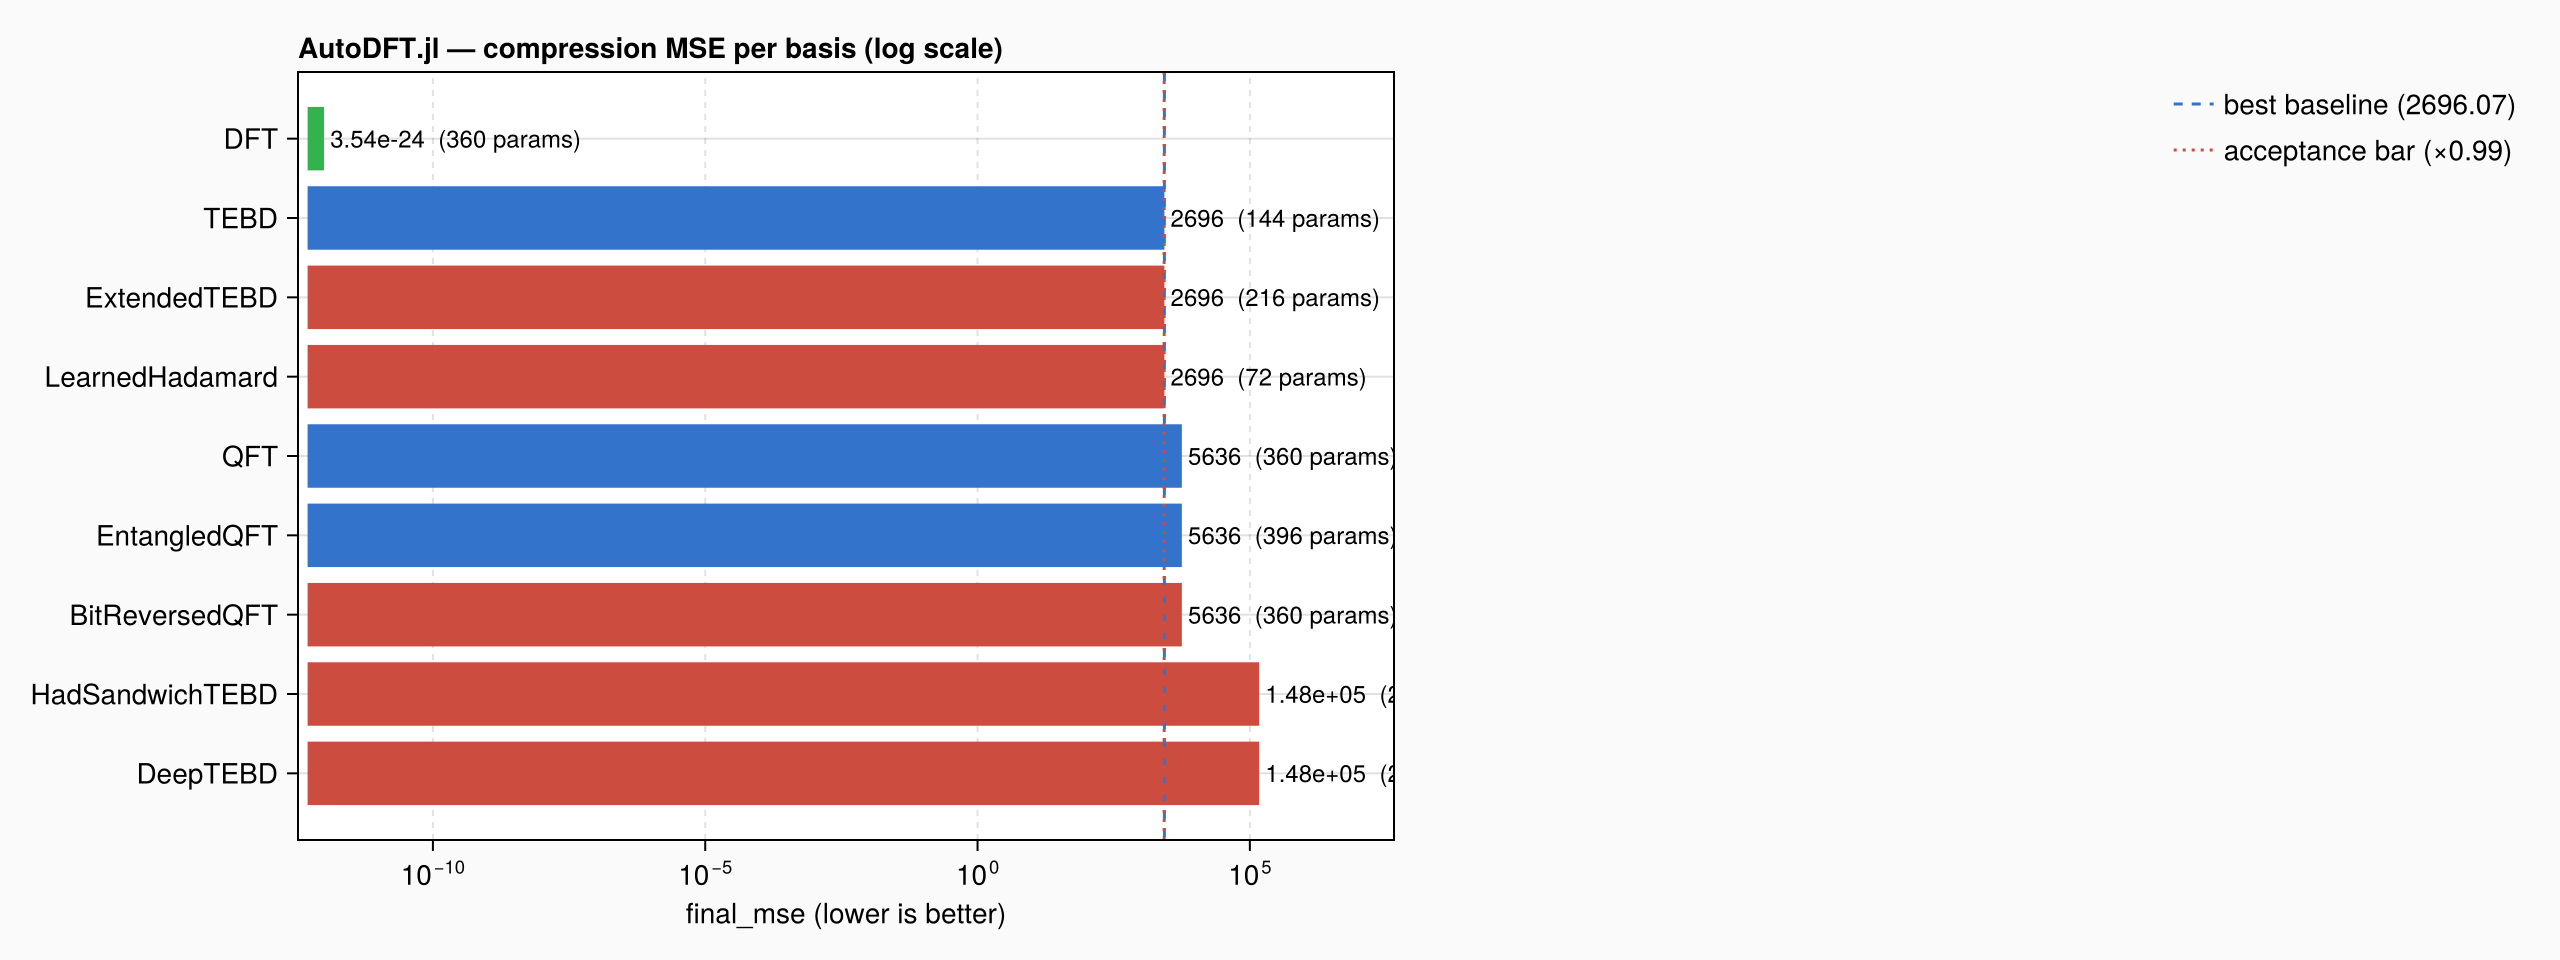
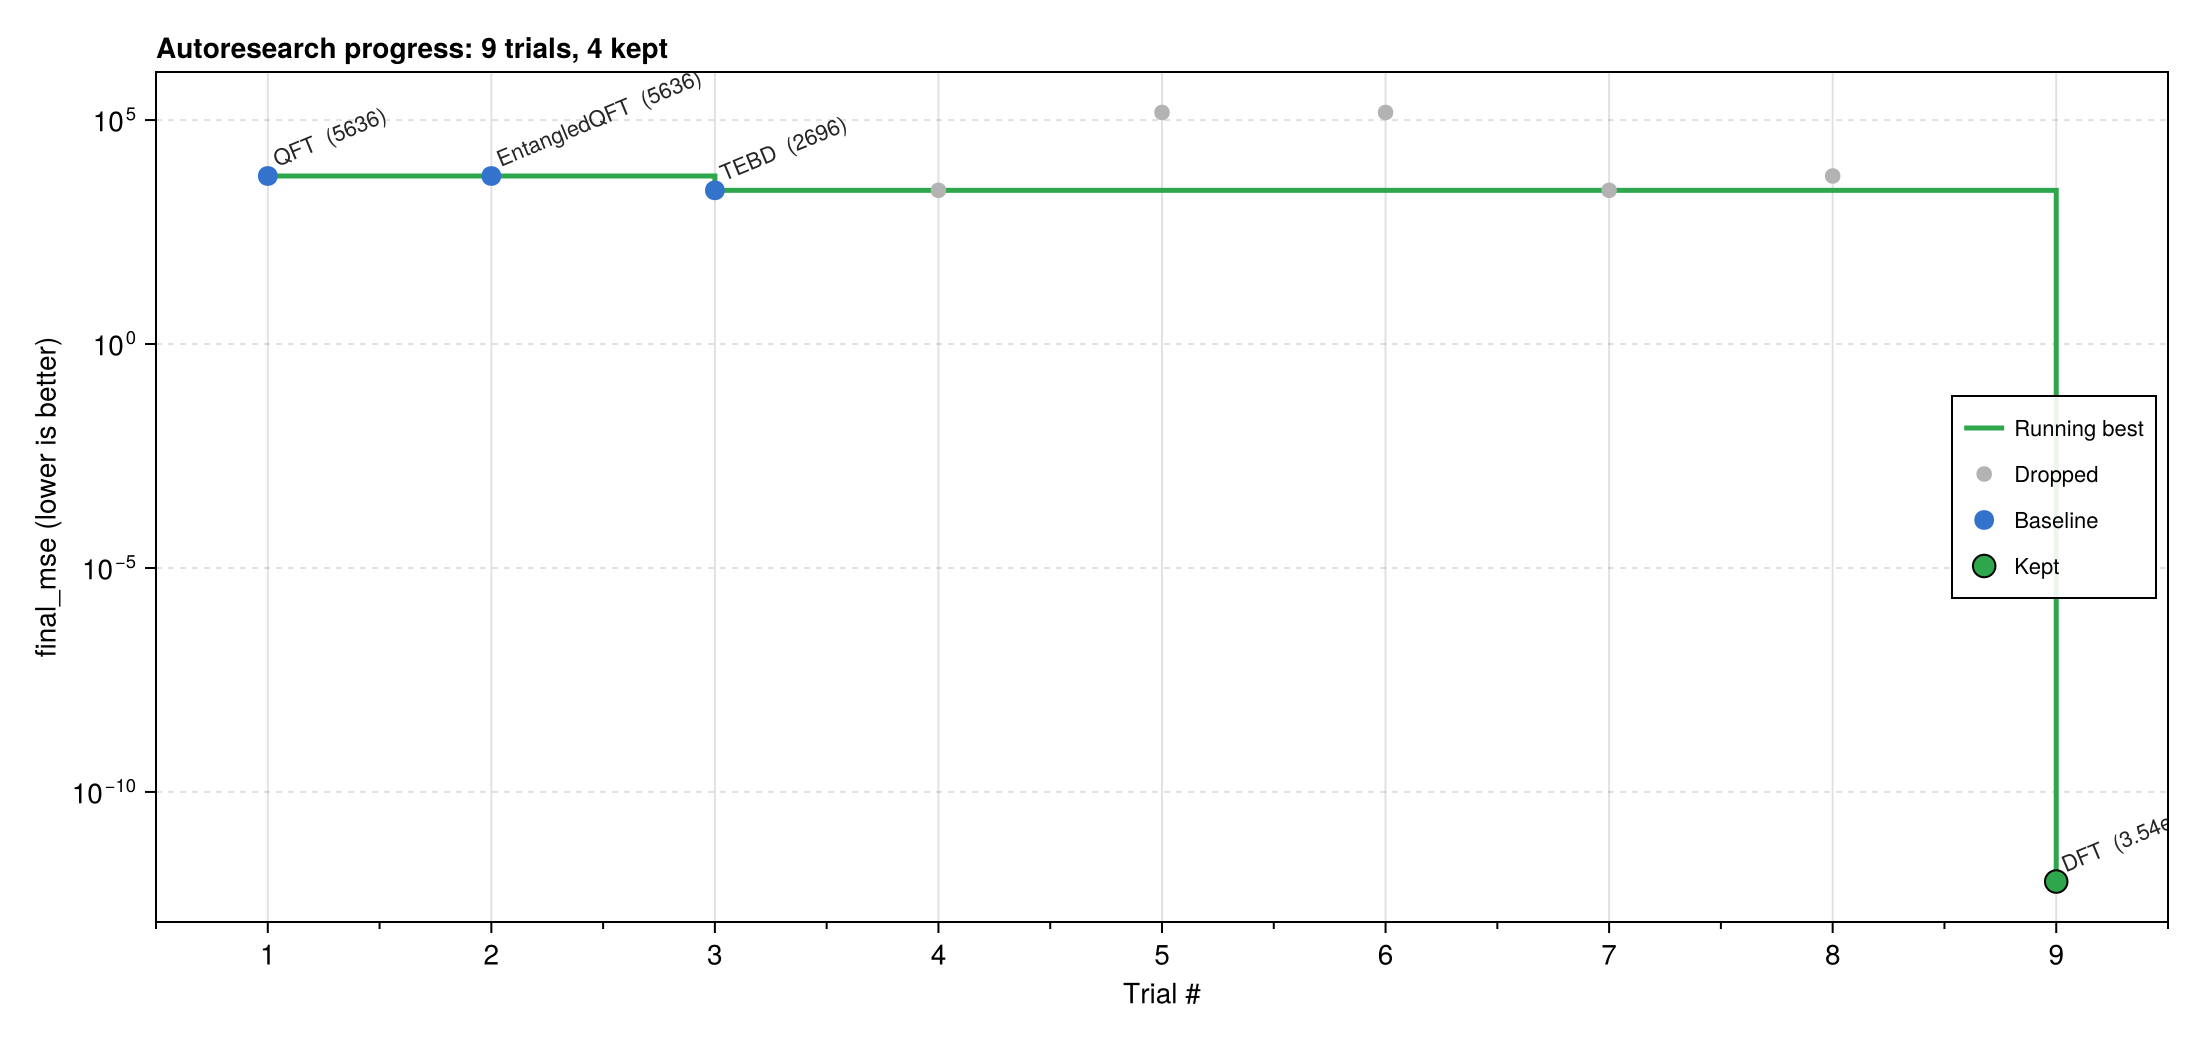
docs: switch progress to scatter + running-min, add circuit viz
- `scripts/plot_results.jl` rewritten from bar chart to scatter + step
  line in the style of autoresearch-hubbard's progress.png. Chronological
  x-axis (by timestamp), log-scale `final_mse`, dropped trials in grey,
  baselines blue, kept green with black edge, running-best step line
  over baseline+kept trials. Title auto-computes trials+kept counts.
- `scripts/plot_circuit.jl` (new) calls `ParametricDFT.plot_circuit` to
  render the 2D QFT tensor-network diagram. Writes both a pedagogical
  4x4 (`docs/circuit.png`) and the full 9x9 used by the experiment
  (`docs/circuit_full.png`). DFTBasis shares the circuit with QFTBasis
  unchanged; only the einsum's input-leg permutation differs.
- README: replaces "bar chart" reference with the scatter; adds a
  "Circuit structure" section showing the 4x4 diagram with a pointer to
  the full 9x9 image.
- Rehashed frozen-manifest.toml after README changes; make verify clean.

diff --git a/README.md b/README.md
@@ -85,8 +85,8 @@ earlier so the loop can keep iterating through many more experiments.
 
 ## Current leader
 
-See the bar chart at the top of this README for the full picture (baselines
-in blue, kept in green, dropped in red, log scale). Summary:
+See the scatter above for the full trial history (baselines blue, kept green,
+dropped grey, log-scale `final_mse`, running-best step line). Summary:
 
 | basis | MSE | params | note |
 |---|---|---|---|
@@ -95,20 +95,34 @@ in blue, kept in green, dropped in red, log scale). Summary:
 | QFTBasis     | `5.64e+03` | 360 | baseline |
 | EntangledQFT | `5.64e+03` | 396 | baseline |
 
-`DFTBasis` reuses the ParametricDFT-emitted QFT tensors unchanged; the win
+### Circuit structure
+
+<img src="docs/circuit.png">
+
+Rendered by `ParametricDFT.plot_circuit` at pedagogical size (m = n = 4,
+8 qubits). The actual fixture is m = n = 9 (18 qubits, same structure —
+see `docs/circuit_full.png` or regenerate with `scripts/plot_circuit.jl`).
+Row qubits `|x_i⟩` form the row DFT, column qubits `|y_i⟩` form the column
+DFT, separated by the dashed line. Blue `H` are Hadamards; green `M_k` are
+controlled-phase gates with phase `2π/2^k`. This is the textbook 2D QFT —
+no learnable parameters in the "correct DFT" construction.
+
+`DFTBasis` reuses these exact tensors unchanged; the win over `QFTBasis`
 comes from permuting the einsum's *input*-leg labels
-(`qubit_perm = vcat(reverse(1:m), reverse(m+1:m+n))`). Yao's `qft_circuit`
-does produce the textbook QFT, but `reshape(img, 2, 2, ...)` feeds bits to
-qubits in the opposite significance order, so the circuit was computing
-`P · F · P` instead of `F`. The input-leg permutation cancels the redundant
-`P`. See `docs/superpowers/specs/2026-04-19-autoresearch-parametricdft-basis-design.md`
+(`qubit_perm = vcat(reverse(1:m), reverse(m+1:m+n))`). The Yao-emitted
+circuit *is* the textbook QFT, but `reshape(img, 2, 2, ...)` feeds bits
+to qubits in the opposite significance order, so without the permutation
+the pipeline was computing `P · F · P` instead of `F`. The input-leg
+reversal cancels the redundant `P`. See
+`docs/superpowers/specs/2026-04-19-autoresearch-parametricdft-basis-design.md`
 (addendum) for the full derivation and `autoresearch/initial` for the 5
 dropped trials that led to this finding.
 
-Regenerate the plot after a new trial with:
+Regenerate the plots after a new trial with:
 
 ```bash
 julia --project=. scripts/plot_results.jl   # writes docs/progress.png
+julia --project=. scripts/plot_circuit.jl   # writes docs/circuit{,_full}.png
 ```
 
 ## File map
